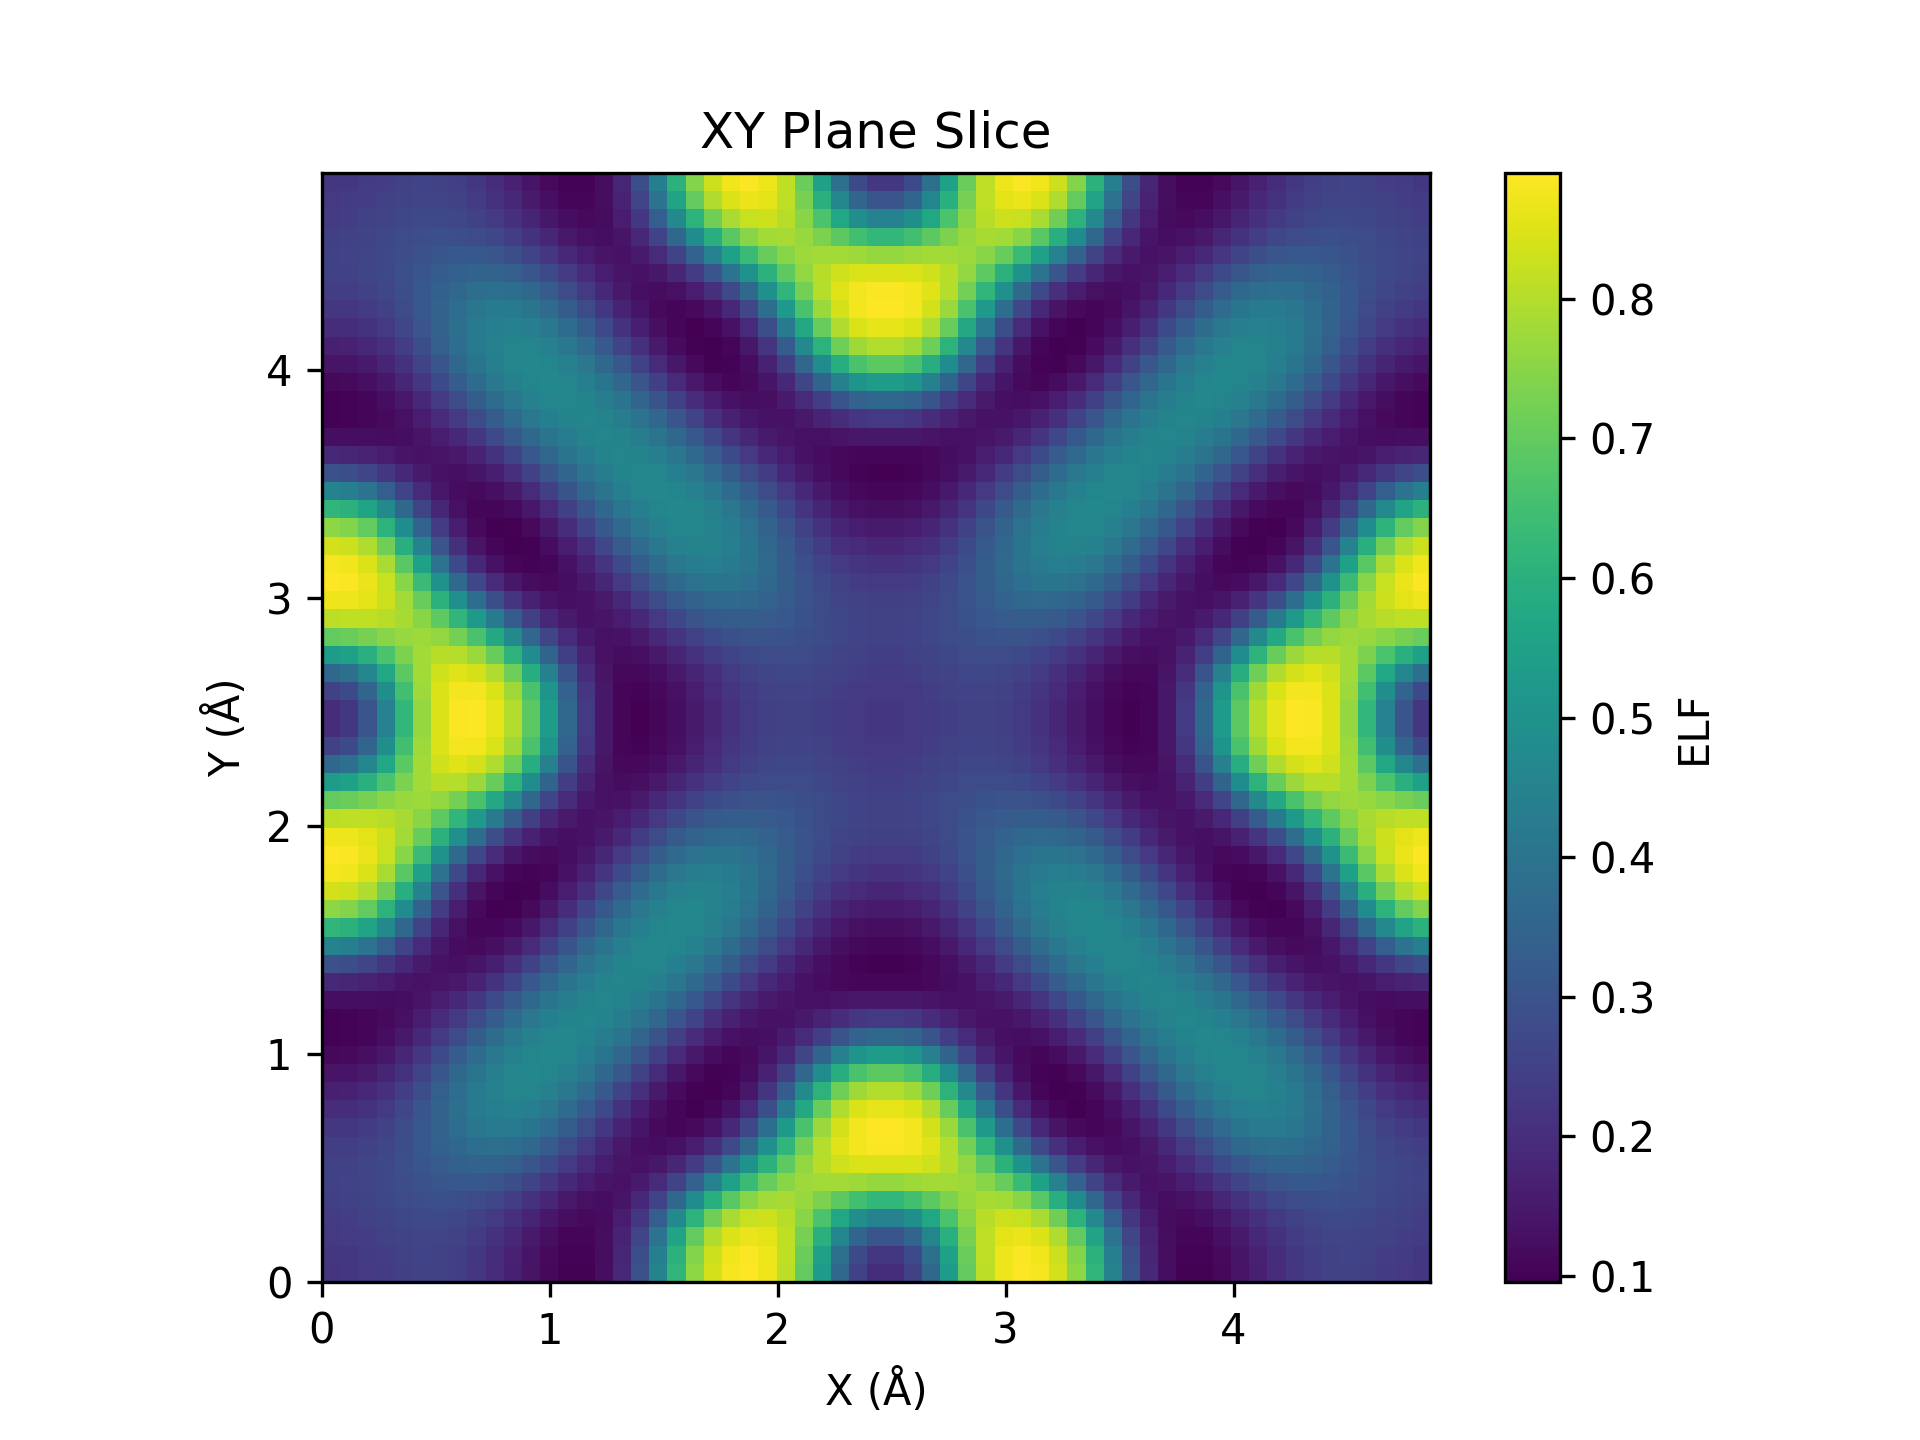
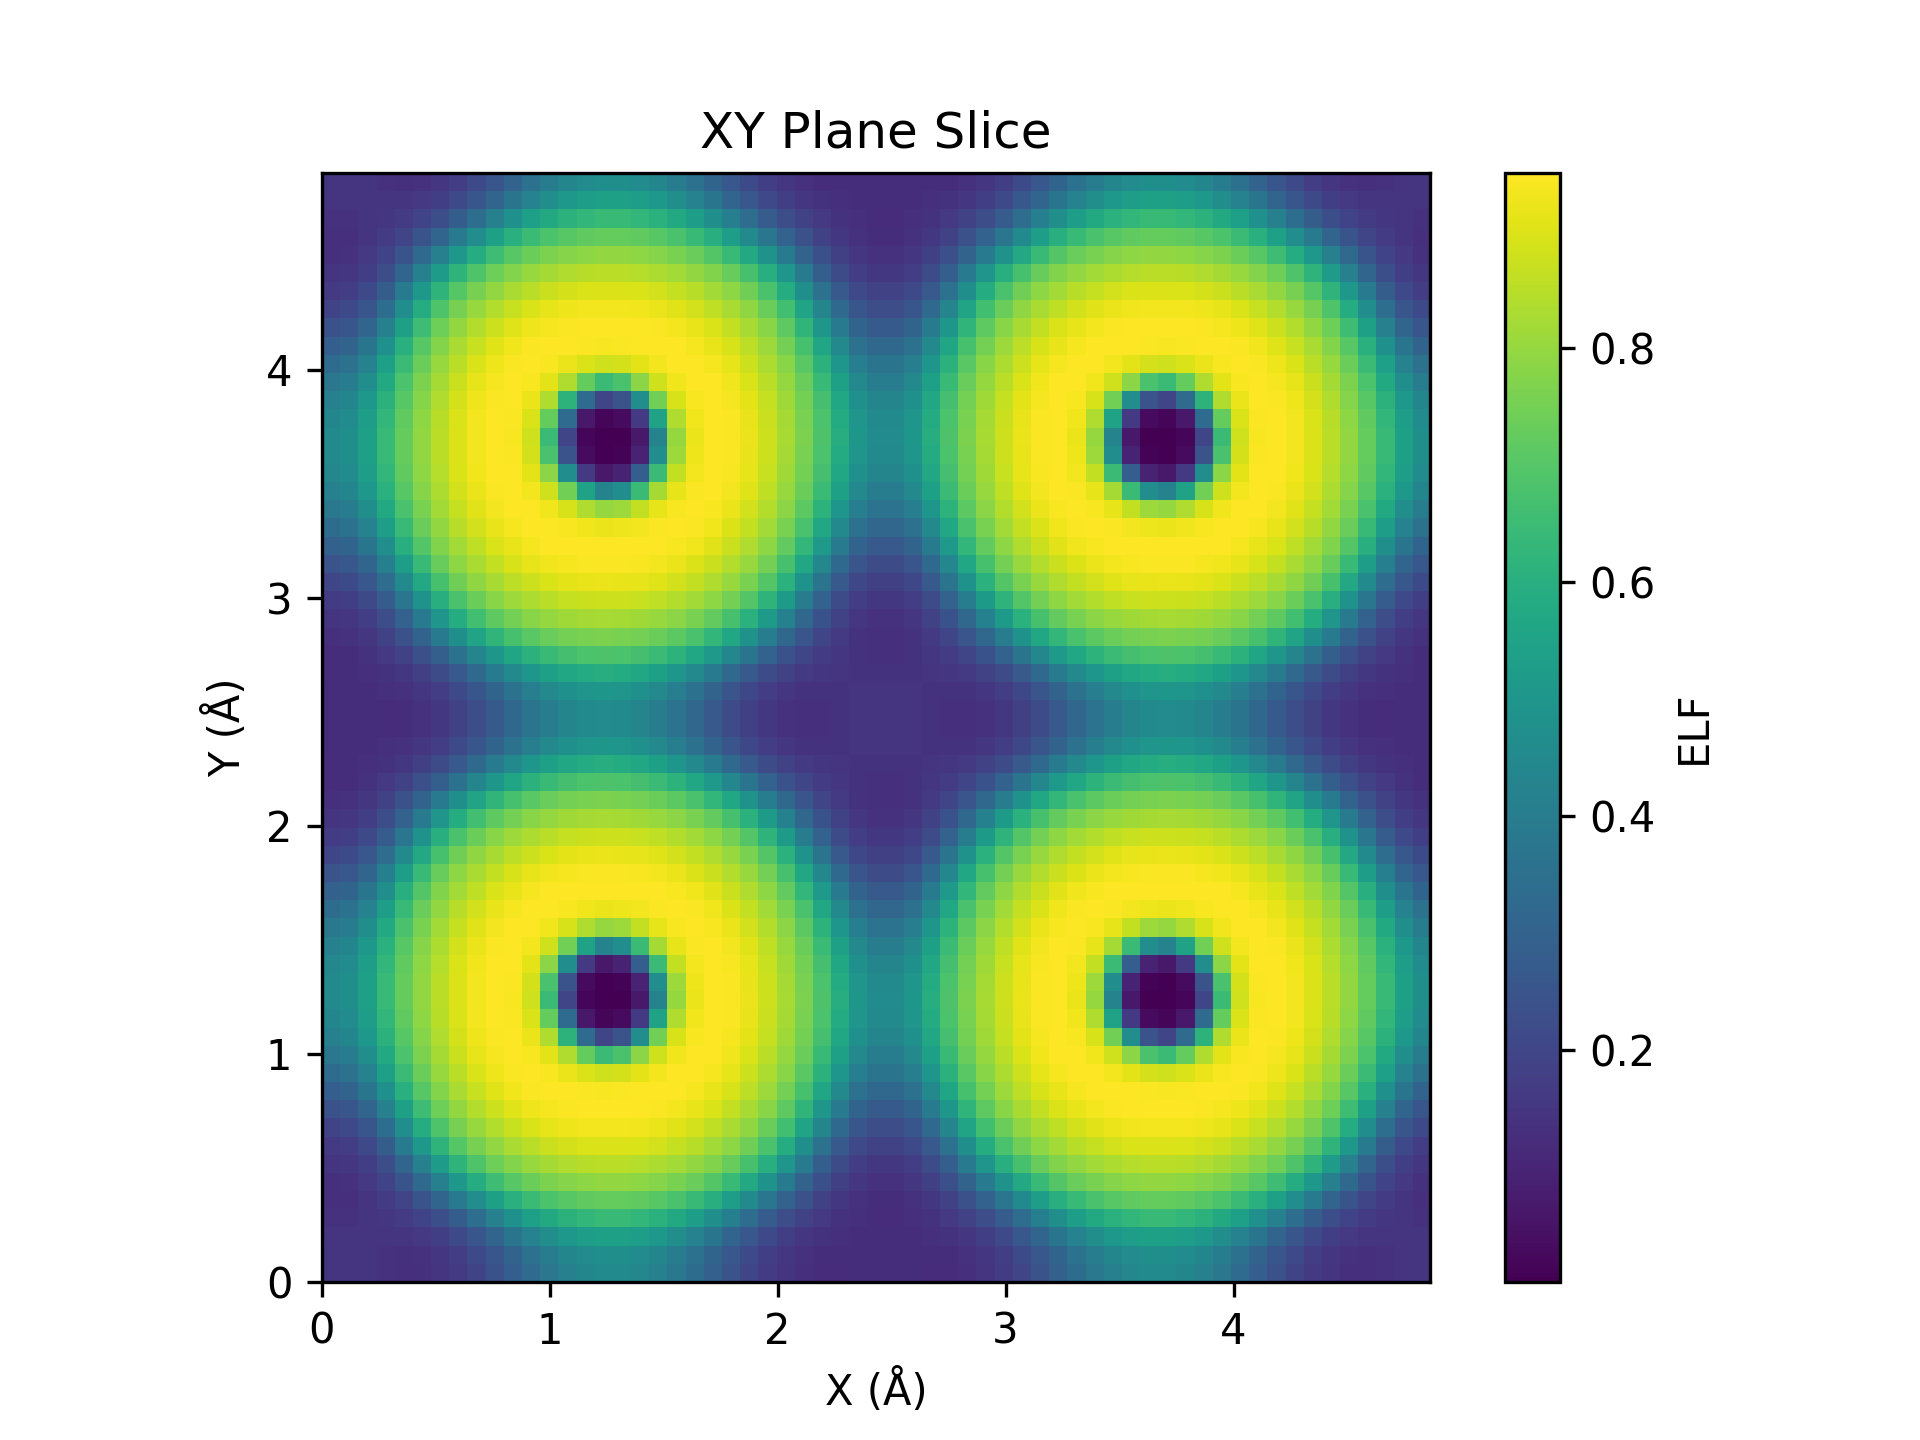
slice

diff --git a/examples/CeO2/plot_slice.py b/examples/CeO2/plot_slice.py
@@ -42,9 +42,9 @@ def main():
     elf_shape = elf_data.shape
 
     # Example: Choose a plane index for slicing (e.g., middle of each dimension)
-    xy_plane_index = elf_shape[2] // 2  # Middle of z-axis
-    yz_plane_index = elf_shape[0] // 2  # Middle of x-axis
-    zx_plane_index = elf_shape[1] // 2  # Middle of y-axis
+    xy_plane_index = elf_shape[2] // 4  # 25% of z-axis
+    yz_plane_index = elf_shape[0] // 4  # 25% of x-axis
+    zx_plane_index = elf_shape[1] // 4  # 25% of y-axis
 
     # Extract slices
     xy_slice = extract_slice(elf_data, xy_plane_index, axis=2)
